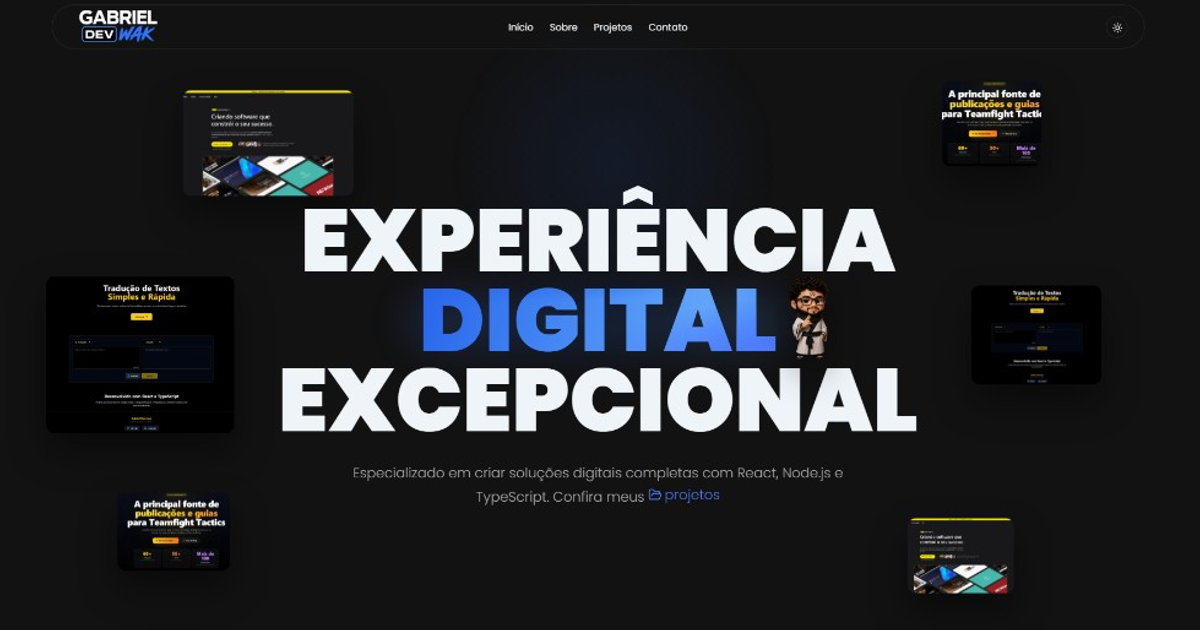
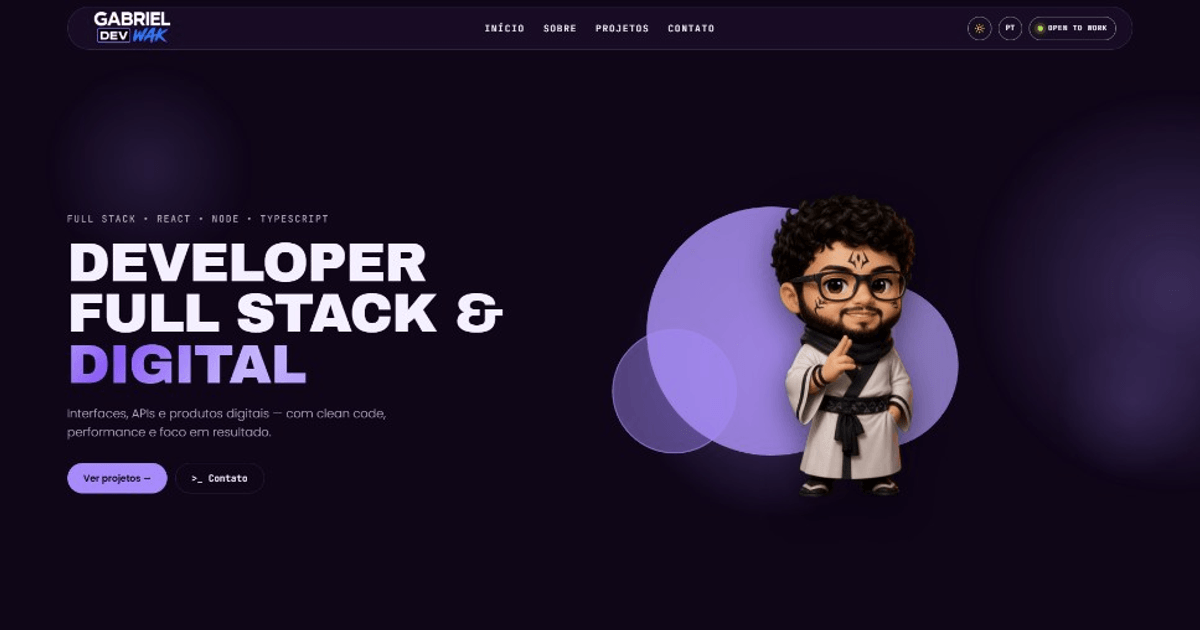
feat: update og preview image and remove alemao burger project

diff --git a/index.html b/index.html
@@ -12,17 +12,20 @@
     <meta name="description" content="Portfólio com projetos, serviços e contato. Experiência digital excepcional com React, Node.js e TypeScript." />
     <meta property="og:title" content="Gabriel Dev Wak | Desenvolvedor Full Stack" />
     <meta property="og:description" content="Portfólio com projetos, serviços e contato." />
-    <meta property="og:image" content="https://portifoliowak.vercel.app/preview.png?v=2" />
+    <meta property="og:image" content="https://portifoliowak.vercel.app/preview.png?v=3" />
     <meta property="og:image:width" content="1200" />
     <meta property="og:image:height" content="630" />
+    <meta property="og:image:alt" content="Gabriel Dev Wak — Desenvolvedor Full Stack & Digital" />
     <meta property="og:url" content="https://portifoliowak.vercel.app/" />
     <meta property="og:type" content="website" />
     <meta property="og:locale" content="pt_BR" />
+    <meta property="og:site_name" content="Gabriel Dev Wak" />
 
     <meta name="twitter:card" content="summary_large_image" />
     <meta name="twitter:title" content="Gabriel Dev Wak | Desenvolvedor Full Stack" />
     <meta name="twitter:description" content="Portfólio com projetos, serviços e contato." />
-    <meta name="twitter:image" content="https://portifoliowak.vercel.app/preview.png?v=2" />
+    <meta name="twitter:image" content="https://portifoliowak.vercel.app/preview.png?v=3" />
+    <meta name="twitter:image:alt" content="Gabriel Dev Wak — Desenvolvedor Full Stack & Digital" />
           </head>
   <body>
     <div id="root"></div>

diff --git a/src/i18n/translations.ts b/src/i18n/translations.ts
@@ -167,8 +167,6 @@ export const translations = {
     projects: {
       'Alemãozinho Sorvetes':
         'A ideia era criar uma presença digital que transmitisse a mesma confiança que a marca passa no balcão, na embalagem e no dia a dia com o cliente.',
-      'Alemão Burger':
-        'Site para hamburgueria de Sorocaba com identidade forte #DACITY — smash, cheddar e vibe de rua, focado em cardápio e pedidos.',
       CodePit:
         'Empresa de desenvolvimento web para negócios que precisam de presença digital forte, arquitetura moderna e interfaces responsivas.',
       "Grand'Oro":
@@ -345,8 +343,6 @@ export const translations = {
     projects: {
       'Alemãozinho Sorvetes':
         'The goal was to build a digital presence that conveys the same trust the brand brings at the counter, on the packaging and in everyday customer contact.',
-      'Alemão Burger':
-        'Website for a burger joint in Sorocaba with a strong #DACITY identity — smash, cheddar and street vibe, focused on menu and orders.',
       CodePit:
         'Web development company for businesses that need a strong digital presence, modern architecture and responsive interfaces.',
       "Grand'Oro":

diff --git a/src/data/projects.ts b/src/data/projects.ts
@@ -20,16 +20,6 @@ export const projects: Project[] = [
     tint: '#dcfce7',
   },
   {
-    title: 'Alemão Burger',
-    description:
-      'Site para hamburgueria de Sorocaba com identidade forte #DACITY — smash, cheddar e vibe de rua, focado em cardápio e pedidos.',
-    image: '/alemao-burger.png',
-    tags: ['Next.js', 'React', 'TypeScript', 'Vercel'],
-    githubLink: 'https://github.com/Gabriel-Wak',
-    projectLink: 'https://alemaoburgeur.vercel.app/',
-    tint: '#fee2e2',
-  },
-  {
     title: 'CodePit',
     description:
       'Empresa de desenvolvimento web para negócios que precisam de presença digital forte, arquitetura moderna e interfaces responsivas.',
